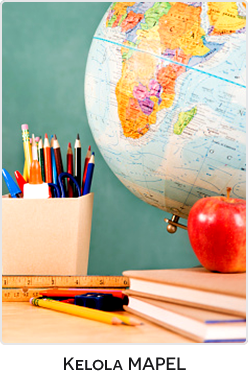
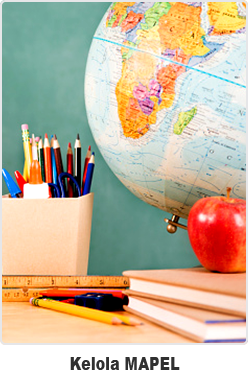
Fix "Pengelolaan Acara to Pengelolaan Ujian", cause font in image not found, than All font in Menu Images has been chaged...

Changed region(s): [[0.254, 0.9239, 0.7621, 0.9816]]

diff --git a/src/main/webapp/sections/teacher/event/detail/event.detail.html b/src/main/webapp/sections/teacher/event/detail/event.detail.html
@@ -1,62 +1,62 @@
 <div class="container-fluid">
 
-  <div class="row-fluid col-xs-12">
-    <h3 class="page-header"><a title="Kembali" ui-sref="^"><i class="fa fa-fw fa-chevron-left"></i></a> Detail Acara</h3>
+    <div class="row-fluid col-xs-12">
+        <h3 class="page-header"><a title="Kembali" ui-sref="^"><i class="fa fa-fw fa-chevron-left"></i></a> Detail Ujian</h3>
 
-    <div class="form-group">
-      <label class="control-label col-xs-4" for="event_name">Nama Acara</label>
-      <div class="col-xs-6">
-        <label id="event_name">:
+        <div class="form-group">
+            <label class="control-label col-xs-4" for="event_name">Nama Ujian</label>
+            <div class="col-xs-6">
+                <label id="event_name">:
           {{_event.event_name}}</label>
-      </div>
-    </div>
+            </div>
+        </div>
 
-    <div class="form-group">
-      <label class="control-label col-xs-4" for="subject">Jenis Acara</label>
-      <div class="col-xs-6">
-        <label id="subject">:
+        <div class="form-group">
+            <label class="control-label col-xs-4" for="subject">Jenis Ujian</label>
+            <div class="col-xs-6">
+                <label id="subject">:
           {{_event.event_type}}</label>
-      </div>
-    </div>
+            </div>
+        </div>
 
-    <div class="form-group">
-      <label class="control-label col-xs-4" for="start_date">Tanggal Mulai</label>
-      <div class="col-xs-6">
-        <label id="start_date">:
+        <div class="form-group">
+            <label class="control-label col-xs-4" for="start_date">Tanggal Mulai</label>
+            <div class="col-xs-6">
+                <label id="start_date">:
           {{_event.start_date+" "+_event.start_time}}</label>
-      </div>
-    </div>
+            </div>
+        </div>
 
-    <div class="form-group">
-      <label class="control-label col-xs-4" for="end_date">Tanggal Selesai</label>
-      <div class="col-xs-6">
-        <label id="end_date">:
+        <div class="form-group">
+            <label class="control-label col-xs-4" for="end_date">Tanggal Selesai</label>
+            <div class="col-xs-6">
+                <label id="end_date">:
           {{_event.end_date+" "+_event.end_time}}</label>
-      </div>
-    </div>
+            </div>
+        </div>
 
-    <div class=" col-xs-12">
-      <h3> Daftar Kelas</h3>
-      <table class="table table-responsive table-striped ">
-        <tr>
-          <th class="centerText">No</th>
-          <th >Nama Kelas</th>
-          <th></th>
-        </tr>
-        <tr ng-repeat="class in _class_list">
-          <td class="centerText">
-            {{$index+1}}
-          </td>
-          <td >
-            {{class.class_name}}
-          </td>
-          <td class="centerText">
-            <a ui-sref=".classDetail({className:class.class_name})" title="Detail Siswa">
-              <i class="fa fa-fw fa-search fa-lg"></i>
-            </a>
-          </td>
-        </tr>
-      </table>
-    </div>
+        <div class=" col-xs-12">
+            <h3> Daftar Kelas</h3>
+            <table class="table table-responsive table-striped ">
+                <tr>
+                    <th class="centerText">No</th>
+                    <th>Nama Kelas</th>
+                    <th></th>
+                </tr>
+                <tr ng-repeat="class in _class_list">
+                    <td class="centerText">
+                        {{$index+1}}
+                    </td>
+                    <td>
+                        {{class.class_name}}
+                    </td>
+                    <td class="centerText">
+                        <a ui-sref=".classDetail({className:class.class_name})" title="Detail Siswa">
+                            <i class="fa fa-fw fa-search fa-lg"></i>
+                        </a>
+                    </td>
+                </tr>
+            </table>
+        </div>
 
-  </div>
+    </div>
